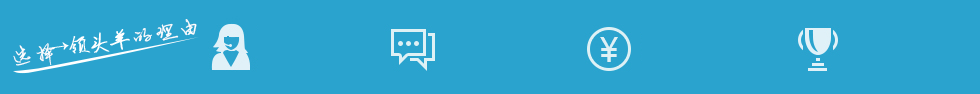
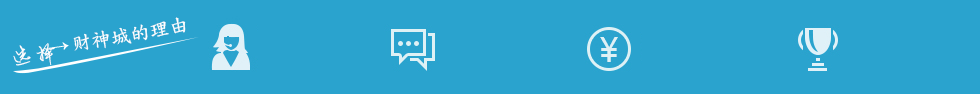
Signed-off-by: Mr.xiaojiu Win <274276153@qq.com>

Changed region(s): [[0.0612, 0.1915, 0.2143, 0.5745]]

diff --git a/App/Modules/Home/Tpl/Lottery/index.html b/App/Modules/Home/Tpl/Lottery/index.html
@@ -1,4 +1,12 @@
-<include file="Public/header"/>
+<!DOCTYPE>
+<html>
+<head>
+    <title>重庆时时彩计划-北京赛车计划</title>
+    <meta charset="UTF-8">
+    <meta name="keywords" content="{$web.keyword}">
+    <meta name="description" content="{$web.description}">
+</head>
+<body>
 <meta http-equiv="refresh" content="60;url=/index.php?id={$info.id}">
 <link href="/Public/source/hnguo/plan/style.css" rel="stylesheet" type="text/css">
 <div class="main">
@@ -56,7 +64,7 @@
         .plan-list tr td{font-size:20px;}
     </style>
     <div class="width_1000" style="text-align: center;">
-        <b style="font-size:24px; color:blue;">领头羊团队分析师推荐<br><span style="color:red;font-size:24px;"><if condition="($new['state'] eq 0) AND ($new['status'] neq 1)">{$expect+1-$new.state_time}-{$expect+3-$new.state_time}<else/>{$expect+1}-{$expect+3}</if>期 个位【<empty name="info.nums">等待分析</empty>{$info.nums}】{$expect+1}期 等开</span></b>
+        <b style="font-size:24px; color:blue;">财神城团队分析师推荐<br><span style="color:red;font-size:24px;"><if condition="($new['state'] eq 0) AND ($new['status'] neq 1)">{$expect+1-$new.state_time}-{$expect+3-$new.state_time}<else/>{$expect+1}-{$expect+3}</if>期 个位【<empty name="info.nums">等待分析</empty>{$info.nums}】{$expect+1}期 等开</span></b>
         <br><br><span style="font-size: 16px;">我们3期一个计划，计划中奖则更新计划，3期不中也更新计划。</span>
         <br><br><span style="font-size: 16px; color:blue;">网页自动刷新，请不要频繁刷新。网址：www.csc5188.com</span>
     </div>
@@ -99,7 +107,7 @@
                 <p class="f-pa1   s-d1">行业排名TOP1</p>
             </li>
             <li>
-                <p>7年服务经验</p>
+                <p>5年信誉团队</p>
                 <p class="f-pa1   s-d1">服务超百万客户</p>
             </li>
         </ul>
